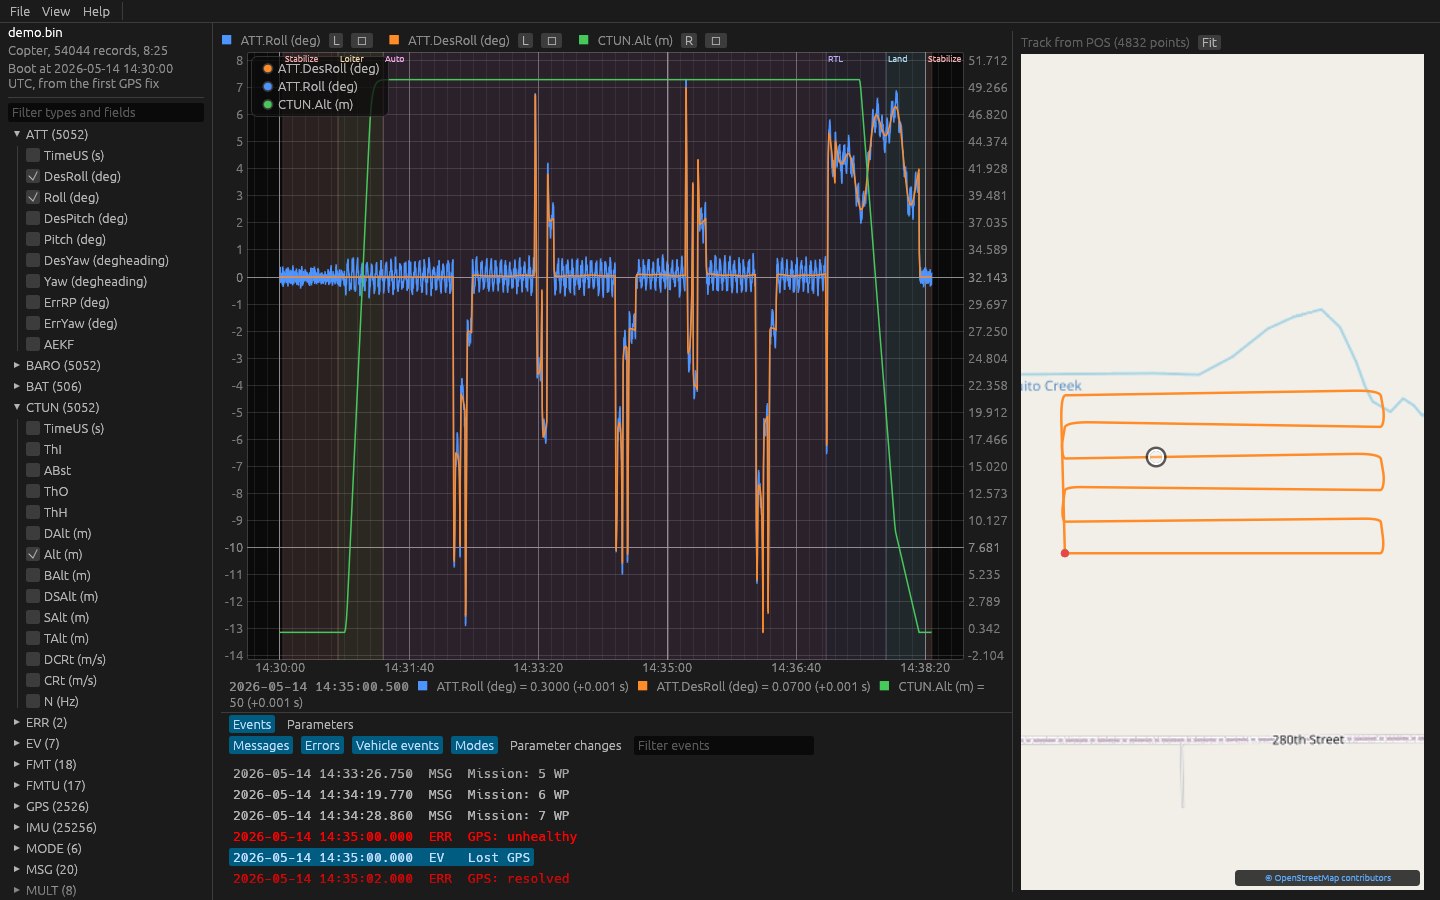
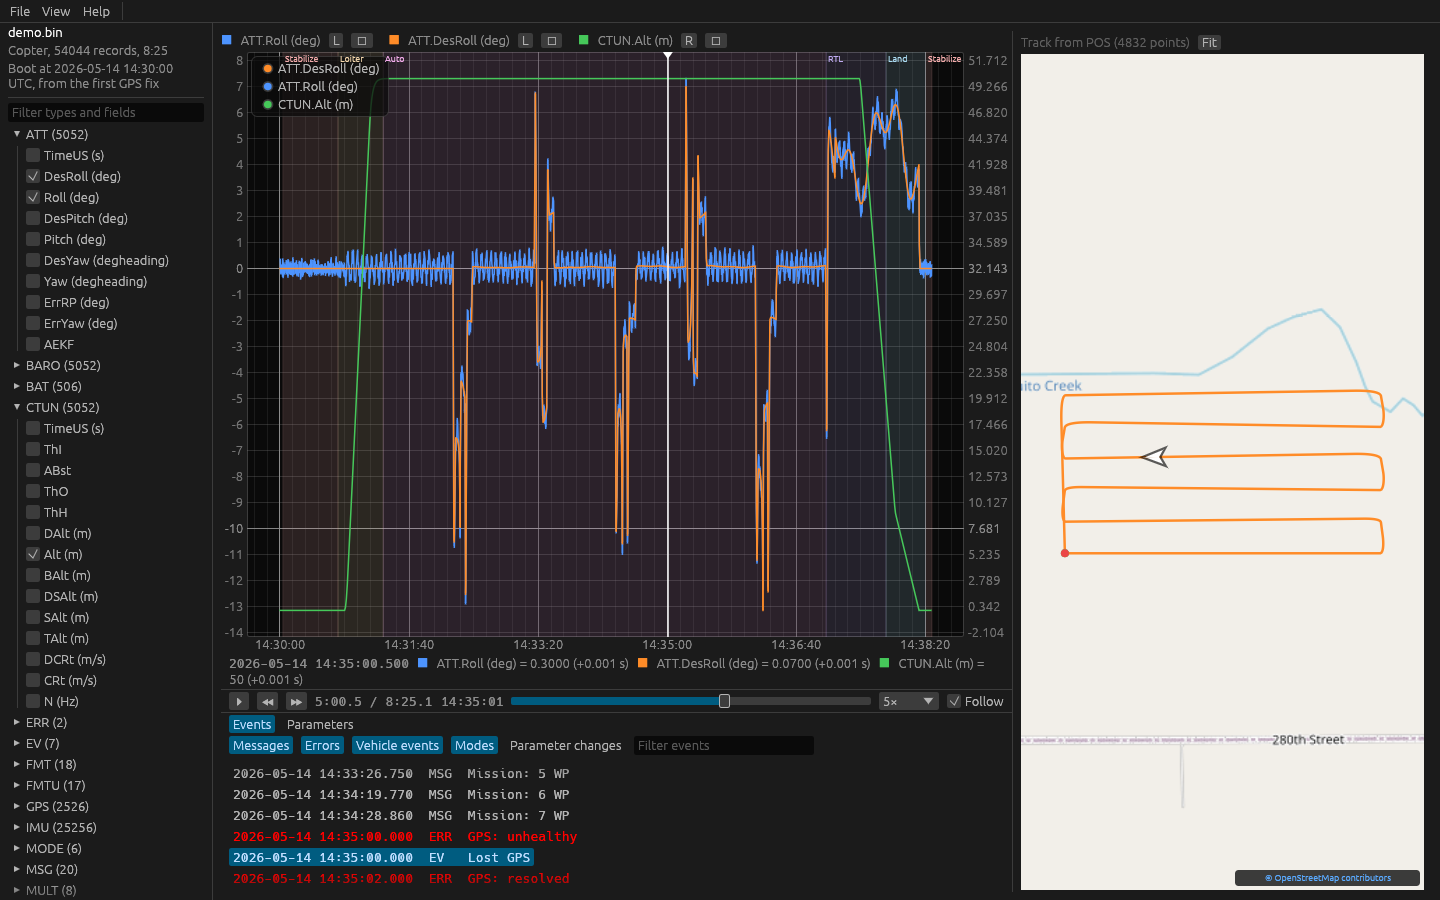
Show playback in the README's pictures
Render the pictures again from the demo: the transport under the plot,
the playhead at each moment shown, and the vehicle's arrow on the map.

diff --git a/README.md b/README.md
@@ -12,8 +12,9 @@ its parameters in a table, the whole flight played back across them, and
 the data out again as CSV, a `.param` file or Parquet.
 
 ![The whole window at the demo flight's GPS fault: roll against desired
-roll and altitude over the flight mode bands, the survey track on the
-map, and the fault's rows in the events
+roll and altitude over the flight mode bands with the playhead at the
+fault and the playback controls under the plot, the vehicle's arrow on
+the survey track on the map, and the fault's rows in the events
 list](assets/hero/overview.png)
 
 The pictures are of the demo log, which the app generates on the spot:
